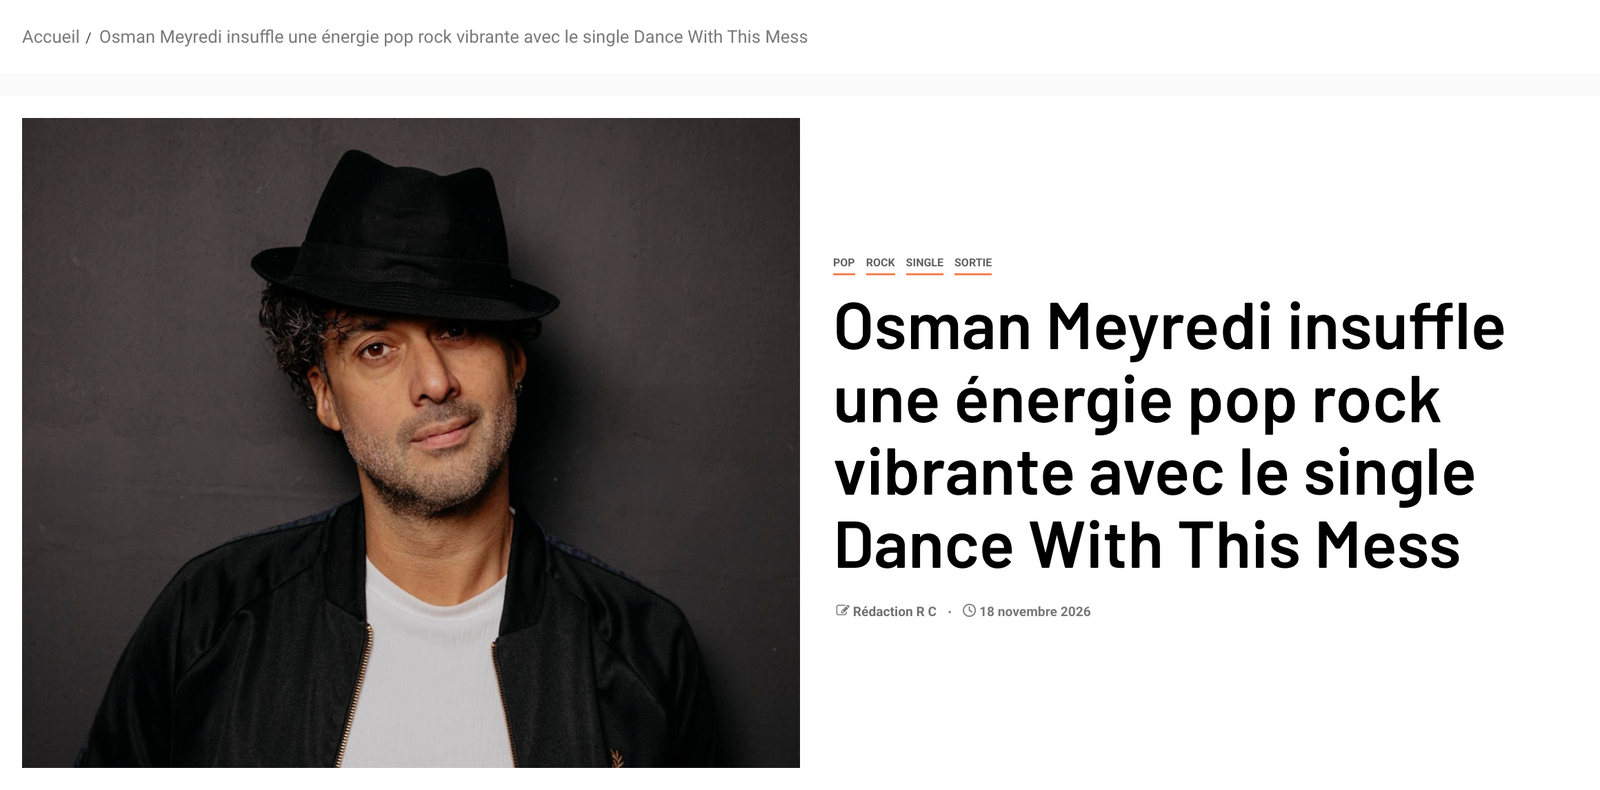
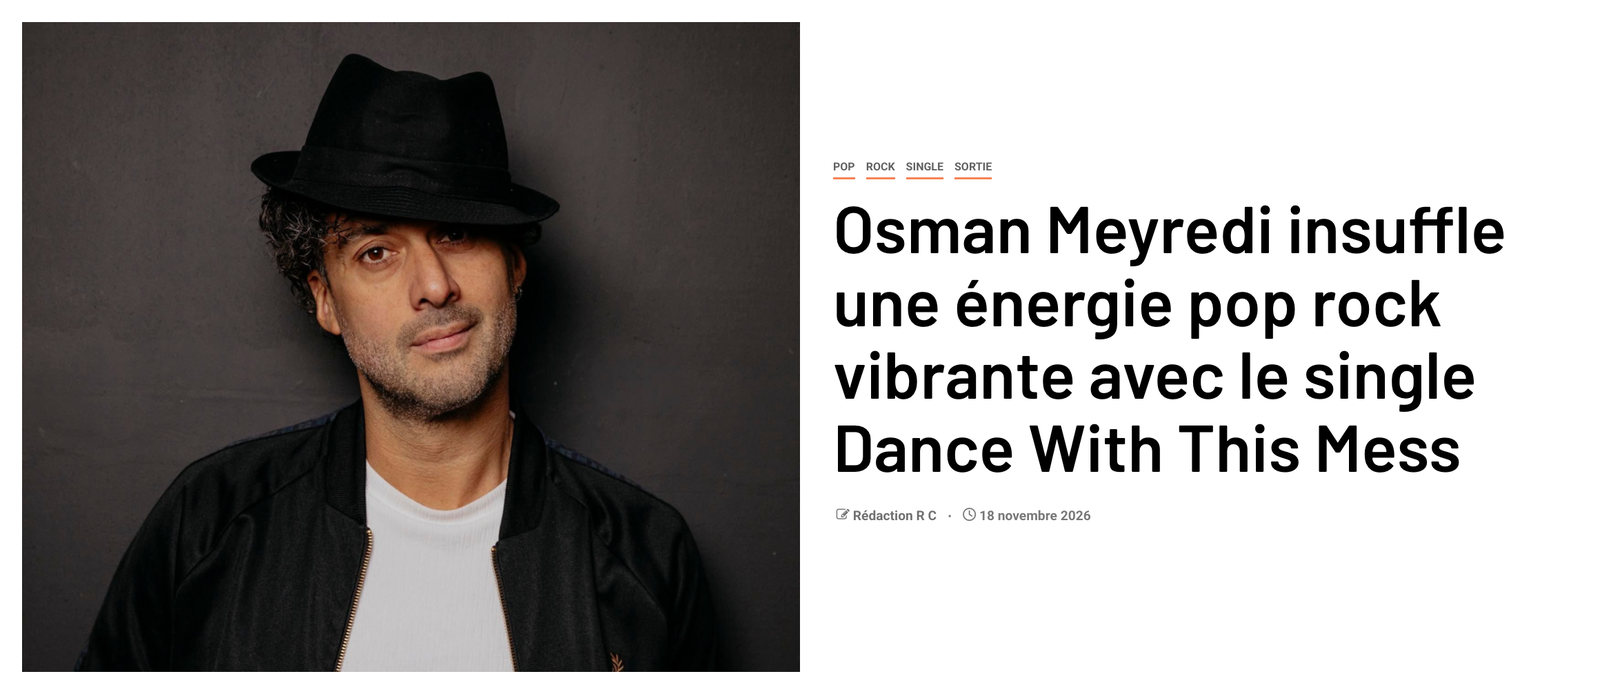
fix(media): Radio Castor image without the breadcrumb
VP, 23-11: remove the breadcrumb text ("Accueil / Osman Meyredi insuffle
une énergie pop rock vibrante avec le single Dance With This Mess") from
the image.

- radio-castor-dance-with-this-mess-2026.jpg: cropped again from VP's
  original screenshot to the article panel only (Osman's photo, tags,
  headline, byline), sRGB, 1600x694, JPEG q84, no metadata, no other
  change.
- media-images.ts, the demo seed's note and tests/nov23-media.test.ts
  follow the new size.

Claude-Session: https://claude.ai/code/session_01CQo8LiT6u7pQGdXZFckLuV

diff --git a/src/data/demo/content.ts b/src/data/demo/content.ts
@@ -653,8 +653,9 @@ export const demoMedia: MediaItemRecord[] = [
     // Image (Jolene: "I miss an image... something that is a candy for the
     // eye, that visitors can see what site they are going to with Osman in
     // the spotlights"; "this screenshot, but then landschap"): VP's
-    // screenshot of the article's page, cropped to its two panels, no other
-    // change; the Media page gives it the wider landscape column.
+    // screenshot of the article's page, cropped to the article panel (photo,
+    // tags, headline, byline; VP left the breadcrumb out), no other change;
+    // the Media page gives it the wider landscape column.
     id: "med-radio-castor-dwtm",
     slug: "osman-meyredi-insuffle-une-energie-pop-rock-vibrante-avec-le-single-dance-with-t",
     publication: "Radio Castor, Paris, France",

diff --git a/src/data/media-images.ts b/src/data/media-images.ts
@@ -9,9 +9,10 @@
  */
 export const MEDIA_IMAGE_SIZES: Readonly<Record<string, { width: number; height: number }>> = {
   "/images/media/corriere-del-trentino-2017.jpg": { width: 2000, height: 2763 },
-  // 23-11: VP's screenshot of Radio Castor's article page, cropped to its
-  // two panels (breadcrumb; photo, tags, headline, byline), sRGB, 1600px.
-  "/images/media/radio-castor-dance-with-this-mess-2026.jpg": { width: 1600, height: 790 },
+  // 23-11: VP's screenshot of Radio Castor's article page, cropped to the
+  // article panel (photo, tags, headline, byline; the breadcrumb left out
+  // at VP's request), sRGB, 1600px.
+  "/images/media/radio-castor-dance-with-this-mess-2026.jpg": { width: 1600, height: 694 },
 };
 
 /** The site path of an image hosted with the site, also when the Studio

diff --git a/tests/nov23-media.test.ts b/tests/nov23-media.test.ts
@@ -41,7 +41,7 @@ describe("Radio Castor's image (Jolene, 23-11)", () => {
   it("is the landscape screenshot of the article's page, hosted with the site", () => {
     expect(radioCastor?.imageUrl).toBe("/images/media/radio-castor-dance-with-this-mess-2026.jpg");
     const size = mediaImageSize(radioCastor!.imageUrl!);
-    expect(size).toEqual({ width: 1600, height: 790 });
+    expect(size).toEqual({ width: 1600, height: 694 });
     expect(size!.width).toBeGreaterThan(size!.height);
   });
 });
